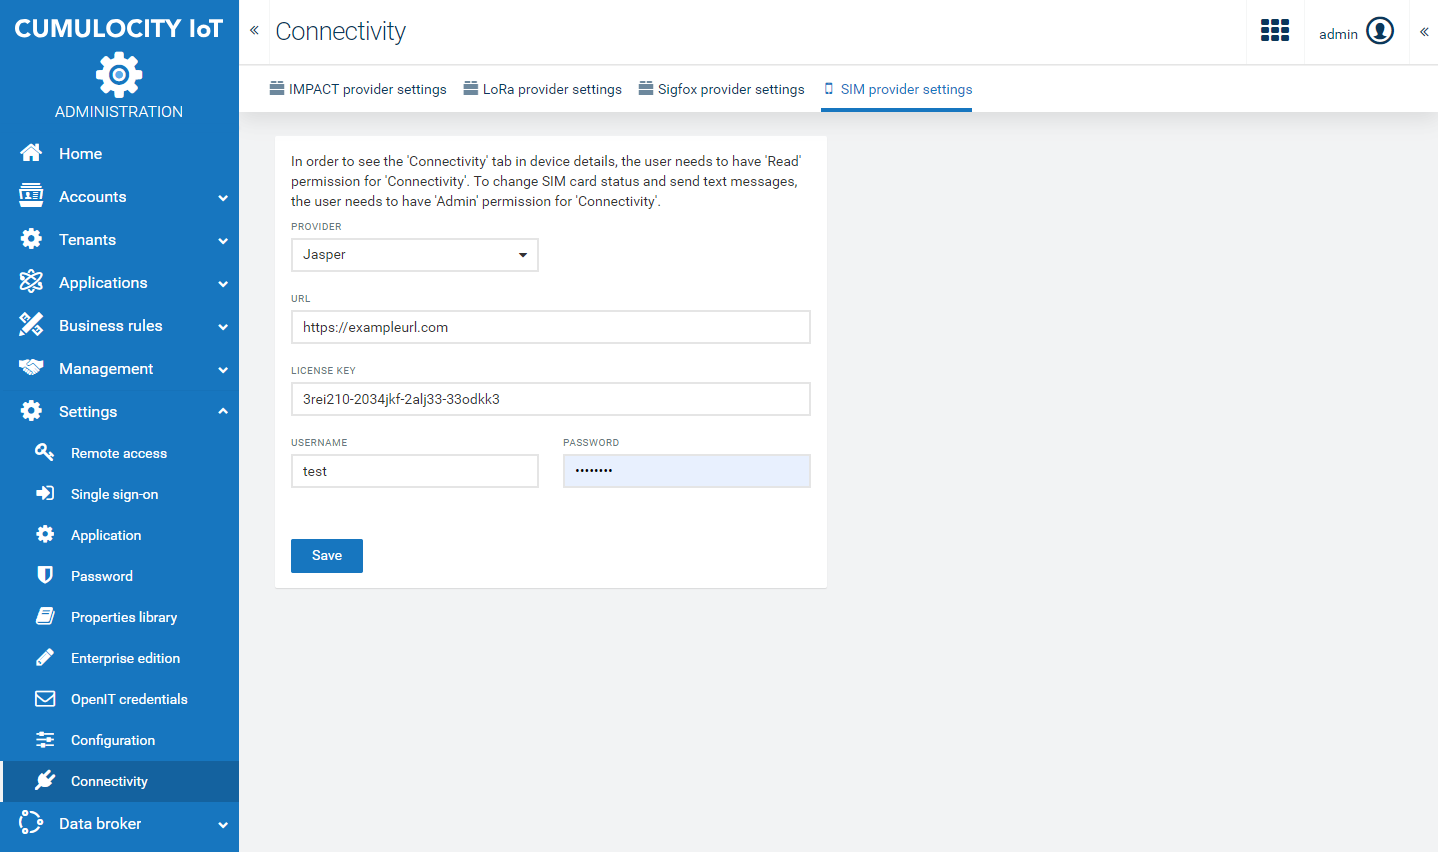
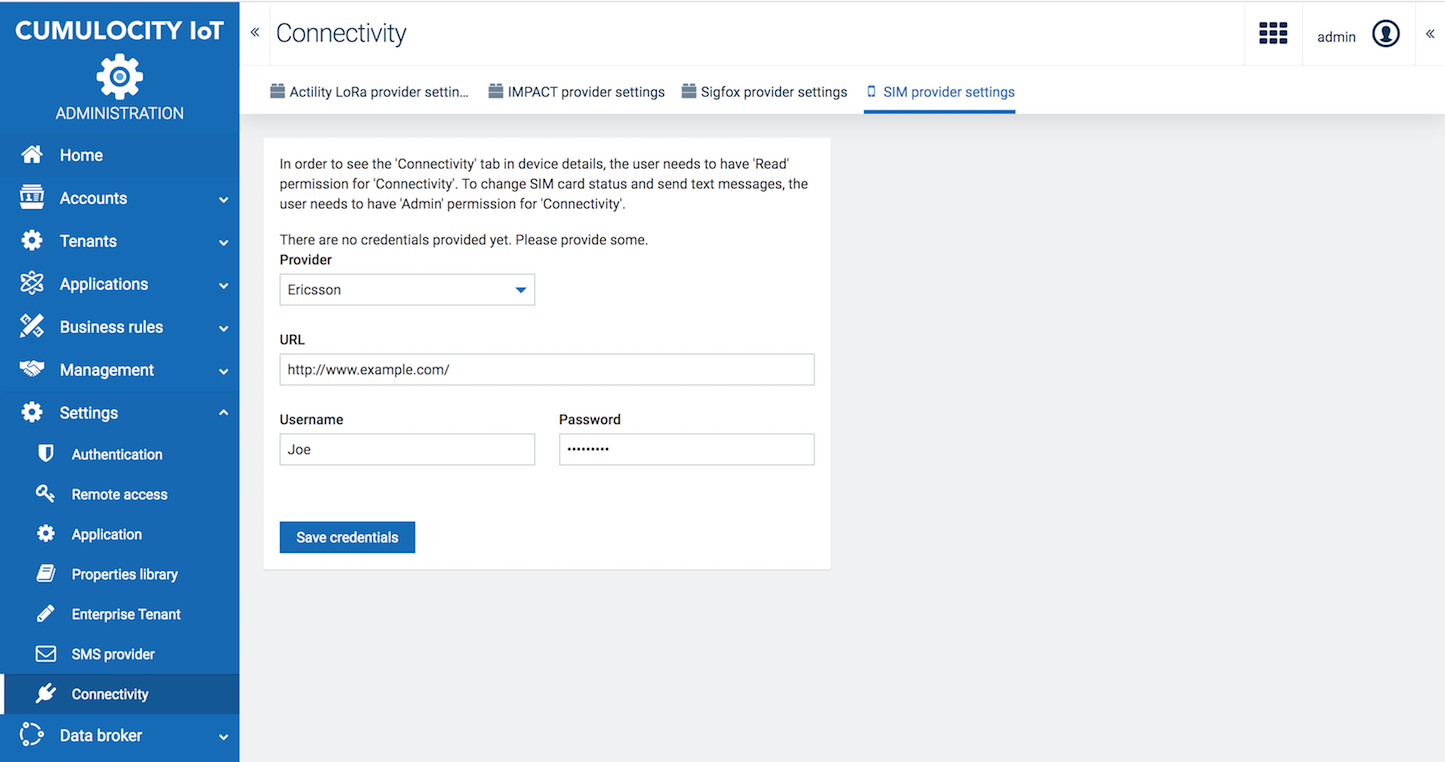
change LoRa to Actility LoRa in various places

diff --git a/content/protocol-integration/lora-actility-bundle/overview.md b/content/protocol-integration/lora-actility-bundle/overview.md
@@ -12,9 +12,9 @@ Cumulocity IoT can interface with LoRa devices through Actility's ThingPark Wire
 * Send downstream data to the device using Cumulocity IoT operations.
 * Make use of existing Cumulocity IoT features with LoRa devices, for example: connectivity monitoring, device management, data visualization with dashboards, real-time analytics and more.
 
-The following illustration gives an overview of the Cumulocity IoT LoRa Actility integration.
+The following illustration gives an overview of the Cumulocity IoT Actility LoRa  integration.
 
-![Cumulocity IoT LoRa Actility integration](/images/device-protocols/lora-actility/lora-cumulocity-integration.png)
+![Cumulocity IoT Actility LoRa integration](/images/device-protocols/lora-actility/lora-cumulocity-integration.png)
 
 The following sections describe how to:
 

diff --git a/content/users-guide/device-management-bundle/connecting-devices.md b/content/users-guide/device-management-bundle/connecting-devices.md
@@ -33,7 +33,7 @@ To register devices, you may choose one of the following options:
 * **[Bulk device registration](#creds-upload)** - to register larger amounts of devices in one step
 
 If you are subscribed to the required applications you will see a third option
-**Custom device registration** for registering devices of specific types, e.g. LoRa or Sigfox, see the documentation for these services in the [Protocol integration guide](/protocol-integration/overview).
+**Custom device registration** for registering devices of specific types, e.g. Actility LoRa or Sigfox, see the documentation for these services in the [Protocol integration guide](/protocol-integration/overview).
 
 <img src="/images/users-guide/DeviceManagement/devmgmt-register-devices-custom.png" alt="Register devices">
 

diff --git a/content/release-notes/10-7-0-bundle/10-7-0-documentation.md b/content/release-notes/10-7-0-bundle/10-7-0-documentation.md
@@ -42,7 +42,8 @@ In addition to the Installation & Operations guides already provided for previou
 
 * **Cloud Remote Access** - Installation & operations guide
 * **Connectivity** - Installation & operations guide
-* **LoRa Actility** - Installation & operations guide
+* **Actility microservice** - Installation & operations guide
+* **SNMP microservice** - Installation & operations guide
 
 Note, that access to these documents on the Empower Portal requires credentials.
 

diff --git a/content/benutzerhandbuch/administration-de-bundle/changing-settings.md b/content/benutzerhandbuch/administration-de-bundle/changing-settings.md
@@ -412,7 +412,7 @@ Auf der Seite **Connectivity** können Sie Zugangsdaten für verschiedene Anbiet
 Derzeit können folgende Anbietereinstellungen festgelegt werden:
 
 - [Impact](/protocol-integration/impact)
-- [LoRa](/protocol-integration/lora-actility)
+- [Actility LoRa](/protocol-integration/lora-actility)
 - [Sigfox](/protocol-integration/sigfox)
 - [SIM](/protocol-integration/connectivity)
 

diff --git a/content/users-guide/administration-bundle/changing-settings.md b/content/users-guide/administration-bundle/changing-settings.md
@@ -423,7 +423,7 @@ In the **Connectivity** page, you can manage credentials for different providers
 The following provider settings may currently be specified:
 
 - [Impact](/protocol-integration/impact)
-- [LoRa](/protocol-integration/lora-actility)
+- [Actility LoRa](/protocol-integration/lora-actility)
 - [Sigfox](/protocol-integration/sigfox)
 - [SIM](/protocol-integration/connectivity)
 

diff --git a/content/protocol-integration/lora-actility.md b/content/protocol-integration/lora-actility.md
@@ -1,6 +1,6 @@
 ---
 weight: 50
-title: LoRa Actility
+title: Actility LoRa
 layout: bundle
 aliases:
   - /users-guide/optional-services/#lora
